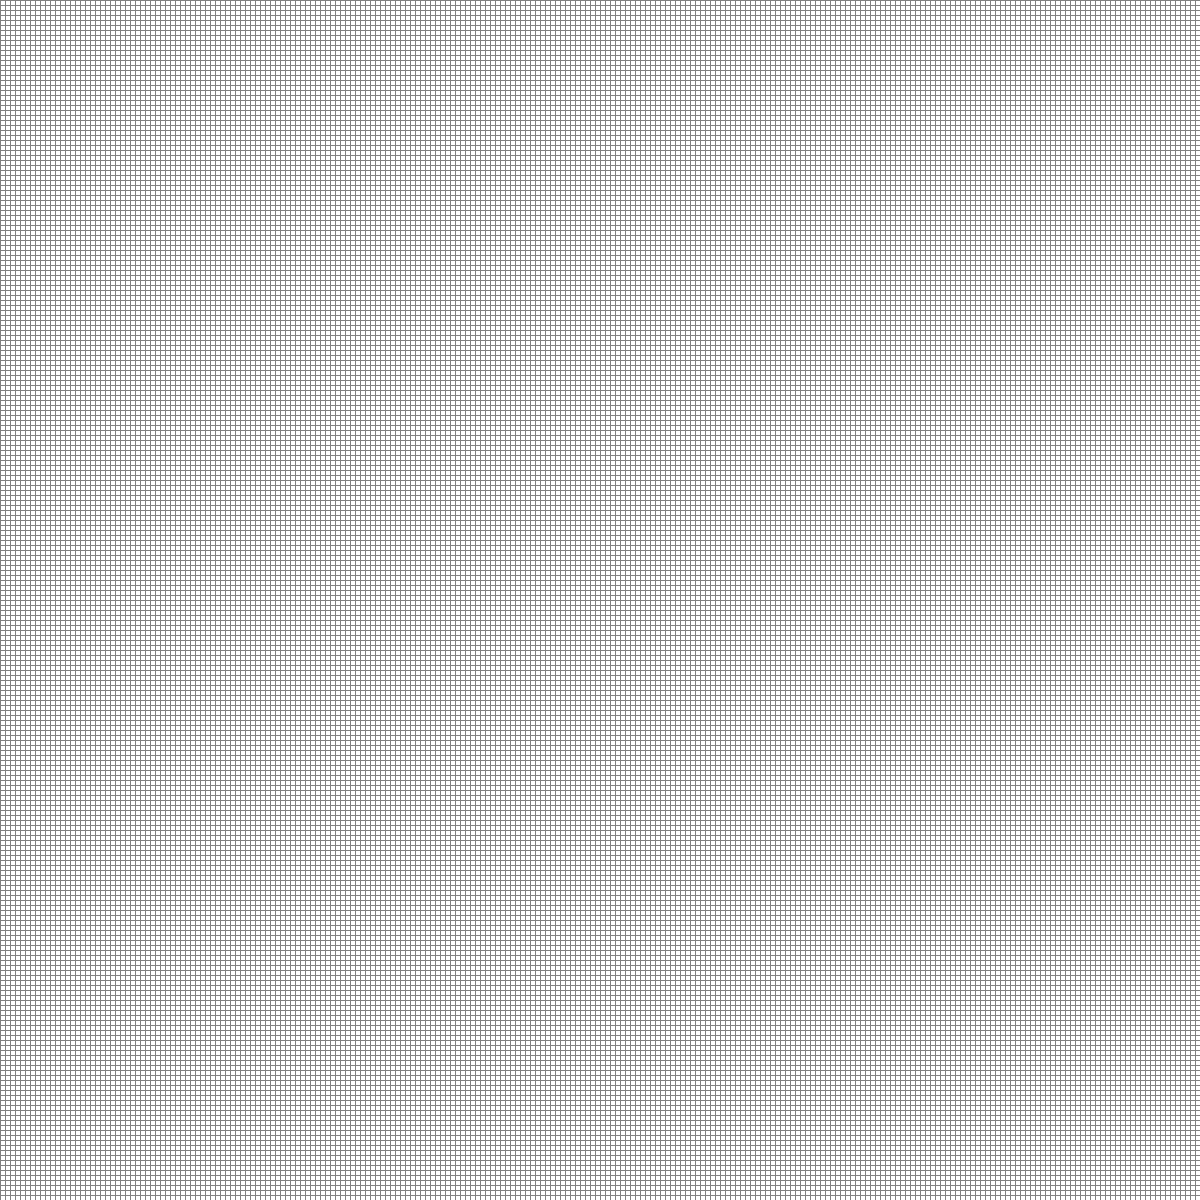
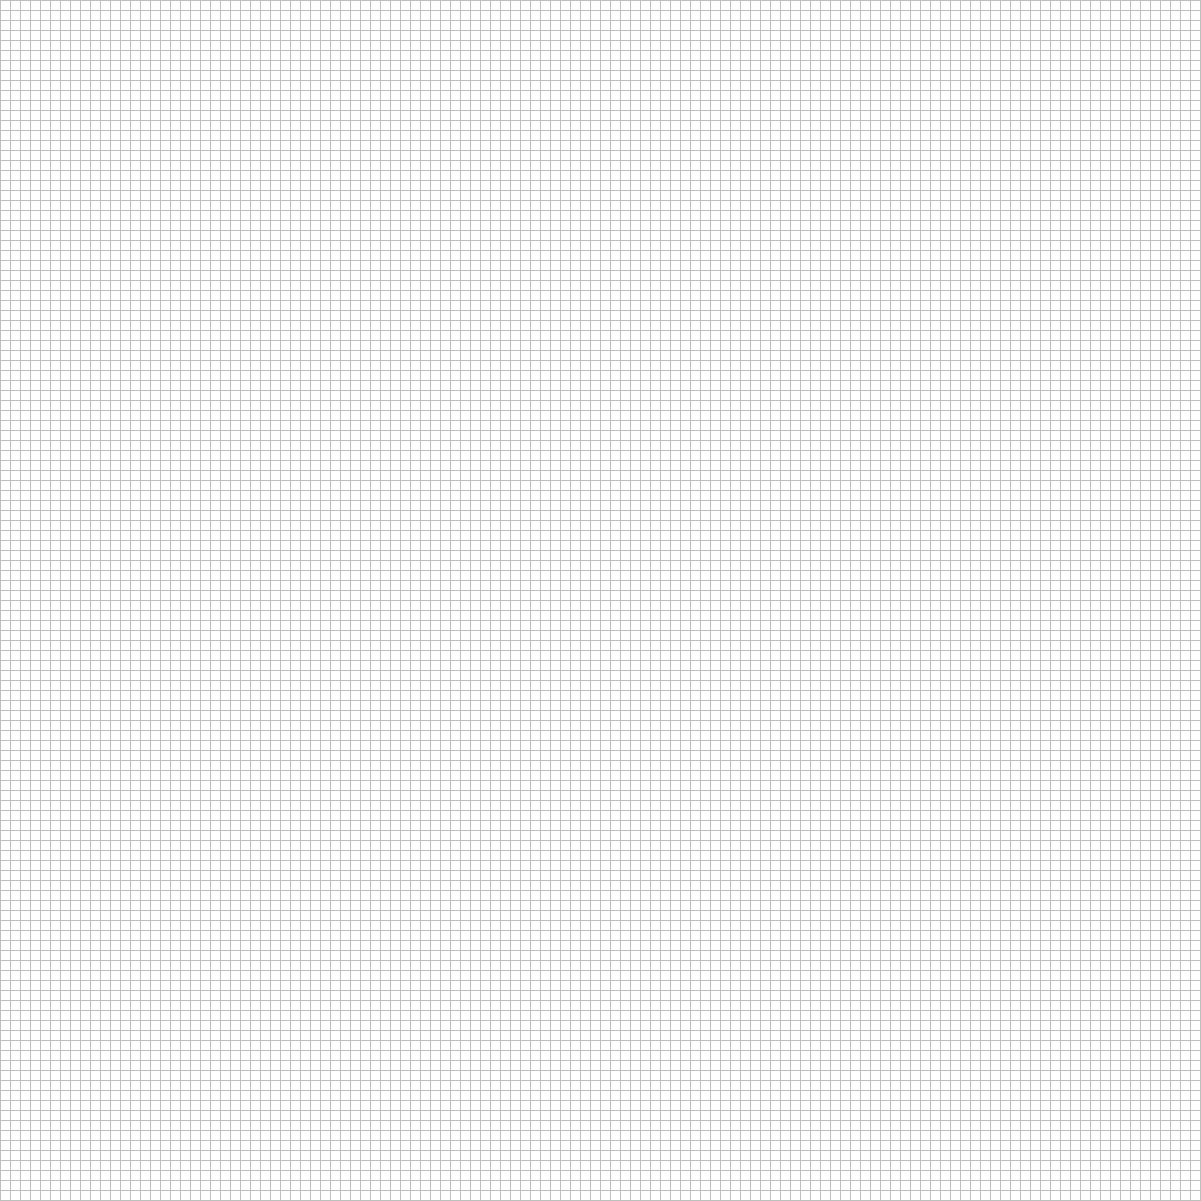
Changed the grid
- Now with less strain on the eyes

diff --git a/KantoorInrichting/Views/Placement/ProductAdding.designer.cs b/KantoorInrichting/Views/Placement/ProductAdding.designer.cs
@@ -29,16 +29,16 @@
         private void InitializeComponent()
         {
             this.ButtonControlPanel = new System.Windows.Forms.Panel();
+            this.btn_Delete = new System.Windows.Forms.Button();
             this.btn_CW = new System.Windows.Forms.Button();
             this.btn_Up = new System.Windows.Forms.Button();
             this.btn_CCW = new System.Windows.Forms.Button();
             this.btn_Left = new System.Windows.Forms.Button();
             this.btn_Down = new System.Windows.Forms.Button();
             this.btn_Right = new System.Windows.Forms.Button();
-            this.productPanel = new KantoorInrichting.Views.Placement.ProductFieldPanel();
             this.productInfo1 = new KantoorInrichting.Views.Placement.ProductInfo();
             this.productList1 = new KantoorInrichting.Views.Placement.ProductList();
-            this.btn_Delete = new System.Windows.Forms.Button();
+            this.productPanel = new KantoorInrichting.Views.Placement.ProductFieldPanel();
             this.ButtonControlPanel.SuspendLayout();
             this.SuspendLayout();
             // 
@@ -56,6 +56,20 @@
             this.ButtonControlPanel.Name = "ButtonControlPanel";
             this.ButtonControlPanel.Size = new System.Drawing.Size(216, 81);
             this.ButtonControlPanel.TabIndex = 7;
+            // 
+            // btn_Delete
+            // 
+            this.btn_Delete.AllowDrop = true;
+            this.btn_Delete.Font = new System.Drawing.Font("Microsoft Sans Serif", 36F, System.Drawing.FontStyle.Bold, System.Drawing.GraphicsUnit.Point, ((byte)(0)));
+            this.btn_Delete.Location = new System.Drawing.Point(126, 3);
+            this.btn_Delete.Name = "btn_Delete";
+            this.btn_Delete.Size = new System.Drawing.Size(87, 75);
+            this.btn_Delete.TabIndex = 11;
+            this.btn_Delete.Text = "🗑";
+            this.btn_Delete.UseVisualStyleBackColor = true;
+            this.btn_Delete.Click += new System.EventHandler(this.btn_Delete_Click);
+            this.btn_Delete.DragDrop += new System.Windows.Forms.DragEventHandler(this.Delete_DragDrop);
+            this.btn_Delete.DragEnter += new System.Windows.Forms.DragEventHandler(this.Delete_DragEnter);
             // 
             // btn_CW
             // 
@@ -123,19 +137,6 @@
             this.btn_Right.UseVisualStyleBackColor = true;
             this.btn_Right.Click += new System.EventHandler(this.btn_Right_Click);
             // 
-            // productPanel
-            // 
-            this.productPanel.AllowDrop = true;
-            this.productPanel.BackColor = System.Drawing.SystemColors.ControlLightLight;
-            this.productPanel.BackgroundImage = global::KantoorInrichting.Properties.Resources.Grid;
-            this.productPanel.Location = new System.Drawing.Point(3, 3);
-            this.productPanel.Name = "productPanel";
-            this.productPanel.Size = new System.Drawing.Size(601, 601);
-            this.productPanel.TabIndex = 8;
-            this.productPanel.DragDrop += new System.Windows.Forms.DragEventHandler(this.DragDrop_DragDrop);
-            this.productPanel.DragEnter += new System.Windows.Forms.DragEventHandler(this.DragDrop_DragEnter);
-            this.productPanel.MouseDown += new System.Windows.Forms.MouseEventHandler(this.Mousedown_Panel);
-            // 
             // productInfo1
             // 
             this.productInfo1.Anchor = ((System.Windows.Forms.AnchorStyles)((System.Windows.Forms.AnchorStyles.Bottom | System.Windows.Forms.AnchorStyles.Right)));
@@ -159,19 +160,18 @@
             this.productList1.Size = new System.Drawing.Size(420, 374);
             this.productList1.TabIndex = 0;
             // 
-            // btn_Delete
+            // productPanel
             // 
-            this.btn_Delete.AllowDrop = true;
-            this.btn_Delete.Font = new System.Drawing.Font("Microsoft Sans Serif", 36F, System.Drawing.FontStyle.Bold, System.Drawing.GraphicsUnit.Point, ((byte)(0)));
-            this.btn_Delete.Location = new System.Drawing.Point(126, 3);
-            this.btn_Delete.Name = "btn_Delete";
-            this.btn_Delete.Size = new System.Drawing.Size(87, 75);
-            this.btn_Delete.TabIndex = 11;
-            this.btn_Delete.Text = "🗑";
-            this.btn_Delete.UseVisualStyleBackColor = true;
-            this.btn_Delete.Click += new System.EventHandler(this.btn_Delete_Click);
-            this.btn_Delete.DragDrop += new System.Windows.Forms.DragEventHandler(this.Delete_DragDrop);
-            this.btn_Delete.DragEnter += new System.Windows.Forms.DragEventHandler(this.Delete_DragEnter);
+            this.productPanel.AllowDrop = true;
+            this.productPanel.BackColor = System.Drawing.SystemColors.ControlLightLight;
+            this.productPanel.BackgroundImage = global::KantoorInrichting.Properties.Resources.Grid_Small;
+            this.productPanel.Location = new System.Drawing.Point(3, 3);
+            this.productPanel.Name = "productPanel";
+            this.productPanel.Size = new System.Drawing.Size(601, 601);
+            this.productPanel.TabIndex = 8;
+            this.productPanel.DragDrop += new System.Windows.Forms.DragEventHandler(this.DragDrop_DragDrop);
+            this.productPanel.DragEnter += new System.Windows.Forms.DragEventHandler(this.DragDrop_DragEnter);
+            this.productPanel.MouseDown += new System.Windows.Forms.MouseEventHandler(this.Mousedown_Panel);
             // 
             // ProductAdding
             // 

diff --git a/KantoorInrichting/Properties/Resources.Designer.cs b/KantoorInrichting/Properties/Resources.Designer.cs
@@ -73,6 +73,16 @@ namespace KantoorInrichting.Properties {
         /// <summary>
         ///   Looks up a localized resource of type System.Drawing.Bitmap.
         /// </summary>
+        internal static System.Drawing.Bitmap Grid_Small {
+            get {
+                object obj = ResourceManager.GetObject("Grid_Small", resourceCulture);
+                return ((System.Drawing.Bitmap)(obj));
+            }
+        }
+        
+        /// <summary>
+        ///   Looks up a localized resource of type System.Drawing.Bitmap.
+        /// </summary>
         internal static System.Drawing.Bitmap No_Image_Available {
             get {
                 object obj = ResourceManager.GetObject("No_Image_Available", resourceCulture);
